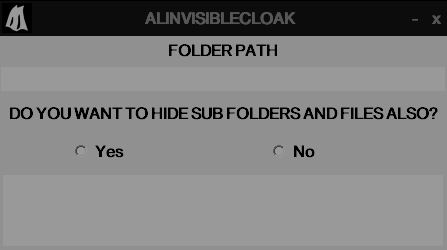
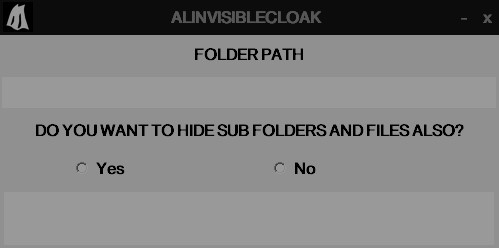
AlInvisibleCloak

diff --git a/AlInvisibleCloak.py b/AlInvisibleCloak.py
@@ -1,8 +1,7 @@
 from tkinter import *
-from tkinter import font
+from tkinter import font, filedialog
 import os
 from PIL import ImageTk, Image
-import pyttsx3
 import sys
 
 cwd = os.path.dirname(os.path.realpath(__file__))
@@ -10,7 +9,7 @@ cwd = os.path.dirname(os.path.realpath(__file__))
 class AlInvisibleCloak():
     def __init__(self, operation):
         root = Tk(className = " ALINVISIBLECLOAK ")
-        root.geometry("450x250+1460+800")
+        root.geometry("500x250+1410+780")
         root.resizable(0,0)
         root.iconbitmap(os.path.join(cwd+'\\UI\\icons', 'alinvisiblecloak.ico'))
         root.overrideredirect(1)
@@ -37,27 +36,30 @@ class AlInvisibleCloak():
             root.overrideredirect(0)
             root.iconify()
 
-        def speak(audio):
-            engine = pyttsx3.init('sapi5')
-            voices = engine.getProperty('voices')
-            engine.setProperty('voice', voices[0].id)
-            engine.say(audio)
-            engine.runAndWait()
+        def getFile():
+            folderPathEntry.delete(1.0, END)
+            filename = filedialog.askdirectory()
+            folderPathEntry.insert(1.0, filename)
 
         def folderOperation():
             text.delete(1.0, END)
             selection = var.get()
-            path = folderPath.get()
+            path = folderPathEntry.get("1.0", END)
+            path = path.replace('/', '\\')[:-1]
             if selection == 1:
                 os.system(f'{opr} "{path}"')
                 path = path+'\*'
                 os.system(f'{opr} "{path}"')
                 text.insert(1.0, f"Folder and it's sub folders and files are now {response}")
-                speak(f"Folder and it's sub folders and files are now {response}")
             elif selection == 2:
                 os.system(f'{opr} "{path}"')
+                if operation.lower() == 'hide':
+                    path = path+'\*'
+                    os.system(f'Attrib -h -s /s /d "{path}"')
+                elif operation.lower() == 'unhide':
+                    path = path+'\*'
+                    os.system(f'Attrib +h /s /d "{path}"')
                 text.insert(1.0, f"Folder is now {response}")
-                speak(f"Folder is now {response}")
 
         textHighlightFont = font.Font(family='OnePlus Sans Display', size=12)
         appHighlightFont = font.Font(family='OnePlus Sans Display', size=12, weight='bold')
@@ -82,11 +84,11 @@ class AlInvisibleCloak():
         titleBar.grid_columnconfigure(3,weight=1)
         titleBar.pack(fill=X)
 
-        folderPath = Label(root, text = "FOLDER PATH")
-        folderPath.pack()
-        folderPath.config(font=appHighlightFont)
-        folderPath= Entry(root, highlightthickness=3, bd=0,font=appHighlightFont)
+        folderPath = Button(root, text = "FOLDER PATH", borderwidth=0, highlightthickness=3, command=getFile)
         folderPath.pack(fill=X)
+        folderPath.config(font=appHighlightFont)
+        folderPathEntry = Text(root, highlightthickness=3, bd=0, font=appHighlightFont, height=1)
+        folderPathEntry.pack(fill=BOTH, expand=True)
 
         ask = Label(root, text = f'DO YOU WANT TO {operation.upper()} SUB FOLDERS AND FILES ALSO?')
         ask.pack(fill=X,pady=5)

diff --git a/README.md b/README.md
@@ -7,8 +7,6 @@ A python script based GUI interface to hide and unhide folders.
 Use the package manager [pip](https://pip.pypa.io/en/stable/) to install packages.
 
 ```bash
-pip install pyttsx3
-pip install PyAudio
 pip install Pillow
 ```
 1. If there is problem in installing PyAudio, then go to the [link](https://www.lfd.uci.edu/~gohlke/pythonlibs/) and download the package file according to the system requirements and then try to install it.
@@ -19,5 +17,5 @@ pip install Pillow
 
 ![](/CaptureUnhide.JPG)
 
-1. Provide the folder path as the input.
+1. Click on FOLDER PATH button to select folder, which you want to hide or unhide.
 2. Then, click on radio button as for with which operation you want to continue.
